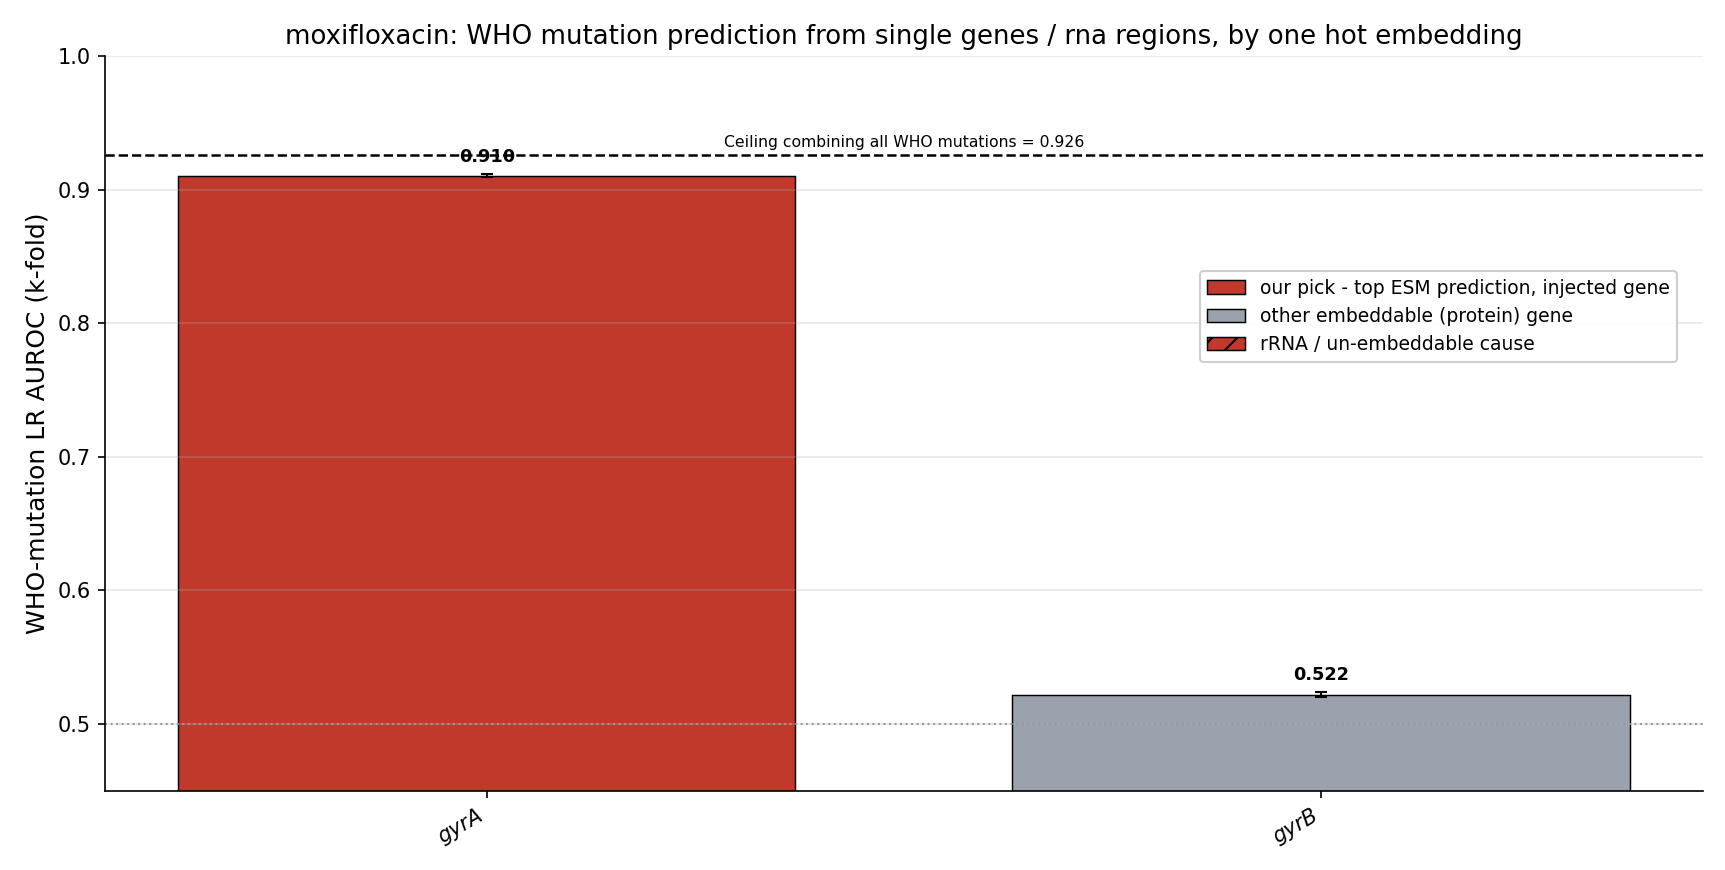
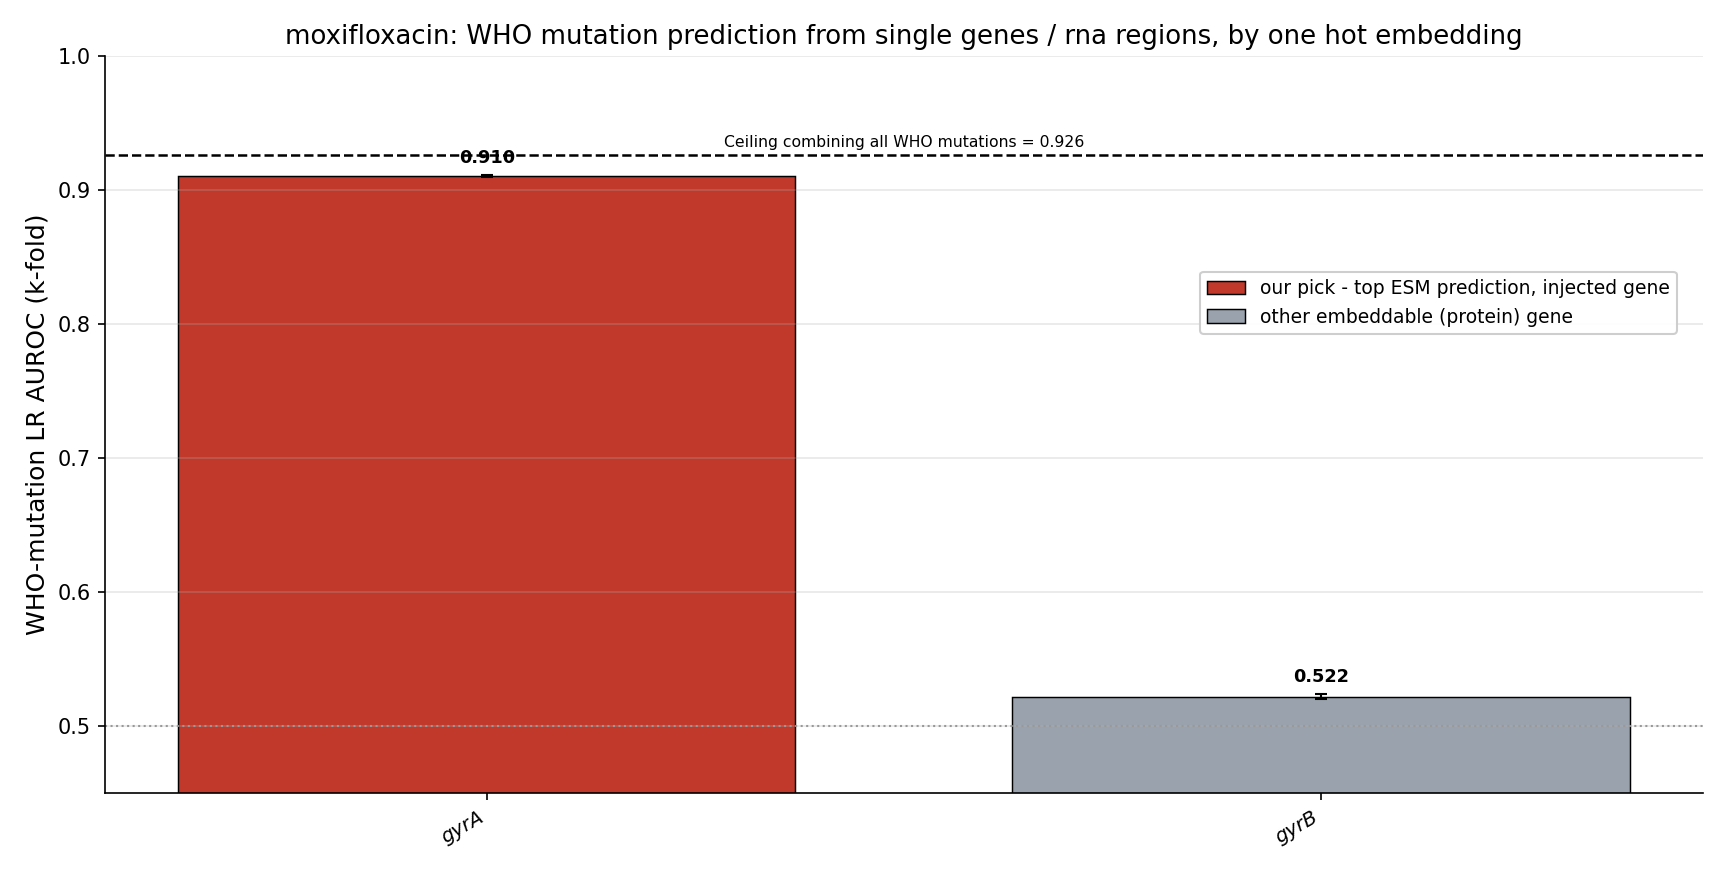
feat(snp_embeddings): distinct hatch per un-embeddable category (promoter / rRNA / other)
The WHO histogram now distinguishes the un-embeddable mechanism categories by hatch so they read
clearly (the new Bacformer encodes these non-coding regions, so they're the targets to fold in next):
  promoter/non-coding = xx, rRNA = //, coding-not-in-our-embeddings = ..  (all red; embeddable = solid).
Legend lists only the categories present. rRNA sites keep the gene name (rrs), not '(promoter)', in both
the plot label and the builder's site field. isoniazid now shows inhA (promoter) 0.646 cross-hatched
(the dominant un-embeddable cause) next to embeddable katG 0.893; kanamycin shows rrs (// rRNA) vs
eis (promoter, xx). Split CSVs distributed into the per-drug folders.

diff --git a/src/snp_embeddings/plot_cause_histogram.py b/src/snp_embeddings/plot_cause_histogram.py
@@ -31,7 +31,15 @@ import pandas as pd
 ROYAL_RED = "#c0392b"       # duller "royal" red — the WHO one-hot family colour
 PICK_COLOUR = ROYAL_RED     # top embeddable WHO cause (the injectable pick)
 EMBED_COLOUR = "#9aa3ad"    # grey — other embeddable (protein) genes
-RRNA_COLOUR = ROYAL_RED     # hatched — rRNA / un-embeddable causes
+RRNA_COLOUR = ROYAL_RED     # hatched — un-embeddable causes (all red, distinguished by hatch)
+# Distinct hatch per un-embeddable mechanism category, so the categories read clearly on the chart.
+# (The new Bacformer encodes these non-coding regions, so they are the targets to fold in next.)
+CATEGORY_HATCH = {"promoter": "xx", "rRNA": "//", "other": ".."}
+CATEGORY_LABEL = {
+    "promoter": "promoter / non-coding — un-embeddable",
+    "rRNA": "rRNA — un-embeddable",
+    "other": "coding, not in our embeddings",
+}
 ALL_KEY = "__ALL_WHO_one_hot__"
 DRUG_DISPLAY = {"rifampin": "rifampicin"}
 
@@ -39,6 +47,25 @@ DRUG_DISPLAY = {"rifampin": "rifampicin"}
 def display_name(drug: str) -> str:
     """Proper drug name for titles / the ``tb_<drug>/`` dir."""
     return DRUG_DISPLAY.get(drug, drug)
+
+
+def _category(row) -> str:
+    """Un-embeddable mechanism category of a site: rRNA / promoter / other-coding, else 'embeddable'."""
+    if row["is_rrna"]:
+        return "rRNA"
+    if row.get("is_noncoding", False):
+        return "promoter"
+    if not row["embeddable"]:
+        return "other"
+    return "embeddable"
+
+
+def _site_label(row) -> str:
+    """X-axis label: rRNA is the gene itself (not a promoter); non-coding protein genes get '(promoter)'."""
+    gene = str(row["gene_name"])
+    if not row["is_rrna"] and row.get("is_noncoding", False):
+        return f"{gene} (promoter)"
+    return gene
 
 
 def plot_cause(csv_path: Path, out_path: Path, *, drug: str, top_n: int = 20) -> None:
@@ -49,17 +76,15 @@ def plot_cause(csv_path: Path, out_path: Path, *, drug: str, top_n: int = 20) ->
     full = df[df["gene_name"] == ALL_KEY]
     genes = (df[df["gene_name"] != ALL_KEY].sort_values("mut_auroc", ascending=False)
              .head(top_n).reset_index(drop=True))
-    pick_positions = [i for i, r in genes.iterrows() if r["embeddable"] and not r["is_rrna"]]
-    pick = pick_positions[0] if pick_positions else -1
+    cats = [_category(r) for _, r in genes.iterrows()]
+    pick = next((i for i, c in enumerate(cats) if c == "embeddable"), -1)
 
     colours, hatches = [], []
-    for i, r in genes.iterrows():
-        if r["is_rrna"] or not r["embeddable"]:
-            colour, hatch = RRNA_COLOUR, "//"
-        elif i == pick:
-            colour, hatch = PICK_COLOUR, ""
+    for i, cat in enumerate(cats):
+        if cat == "embeddable":
+            colour, hatch = (PICK_COLOUR if i == pick else EMBED_COLOUR), ""
         else:
-            colour, hatch = EMBED_COLOUR, ""
+            colour, hatch = RRNA_COLOUR, CATEGORY_HATCH[cat]
         colours.append(colour)
         hatches.append(hatch)
 
@@ -83,19 +108,21 @@ def plot_cause(csv_path: Path, out_path: Path, *, drug: str, top_n: int = 20) ->
     ax.axhline(0.5, color="0.6", linestyle=":", linewidth=1.0)
 
     ax.set_xticks(list(x))
-    ax.set_xticklabels(genes["site"], rotation=30, ha="right", fontsize=9.5, fontstyle="italic")
+    ax.set_xticklabels([_site_label(r) for _, r in genes.iterrows()], rotation=30, ha="right",
+                       fontsize=9.5, fontstyle="italic")
     ax.set_ylabel("WHO-mutation LR AUROC (k-fold)", fontsize=12)
     ax.set_ylim(0.45, 1.0)
     ax.grid(axis="y", alpha=0.3)
     ax.spines[["top", "right"]].set_visible(False)
 
-    handles = [
-        plt.Rectangle((0, 0), 1, 1, color=PICK_COLOUR, ec="black", lw=0.7),
-        plt.Rectangle((0, 0), 1, 1, color=EMBED_COLOUR, ec="black", lw=0.7),
-        plt.Rectangle((0, 0), 1, 1, color=RRNA_COLOUR, ec="black", lw=0.7, hatch="//"),
-    ]
-    labels = ["our pick - top ESM prediction, injected gene", "other embeddable (protein) gene",
-              "rRNA / promoter — un-embeddable cause"]
+    handles = [plt.Rectangle((0, 0), 1, 1, color=PICK_COLOUR, ec="black", lw=0.7),
+               plt.Rectangle((0, 0), 1, 1, color=EMBED_COLOUR, ec="black", lw=0.7)]
+    labels = ["our pick - top ESM prediction, injected gene", "other embeddable (protein) gene"]
+    for cat in ("promoter", "rRNA", "other"):   # only the un-embeddable categories actually present
+        if cat in cats:
+            handles.append(plt.Rectangle((0, 0), 1, 1, color=RRNA_COLOUR, ec="black", lw=0.7,
+                                         hatch=CATEGORY_HATCH[cat]))
+            labels.append(CATEGORY_LABEL[cat])
     ax.legend(handles, labels, loc="upper right", bbox_to_anchor=(0.99, 0.72), fontsize=9, framealpha=0.95)
     ax.set_title(
         f"{display_name(drug)}: WHO mutation prediction from single genes / rna regions, by one hot embedding",

diff --git a/src/snp_embeddings/tbprofiler_gene_lr.py b/src/snp_embeddings/tbprofiler_gene_lr.py
@@ -97,9 +97,11 @@ def run(variants_parquet: Path, ast_sheet: Path, esm_rank_dir: Path, out_dir: Pa
             if agg is None:
                 continue
             noncoding = region == "non-coding"
+            # rRNA variants live in the rRNA itself (not a promoter), so don't tag them '(promoter)'.
+            site = f"{gene} (promoter)" if (noncoding and gene not in RRNA_GENES) else gene
             rows.append({
                 "gene_name": gene, "region": region,
-                "site": f"{gene} (promoter)" if noncoding else gene,
+                "site": site,
                 "mut_auroc": agg["auroc"]["mean"], "mut_auroc_sd": agg["auroc"]["sd"],
                 "mut_auprc": agg["auprc"]["mean"], "mut_auprc_sd": agg["auprc"]["sd"],
                 "n_variants": int(g["variant_id"].nunique()), "n_genomes_with_variant": int(n_genomes),
